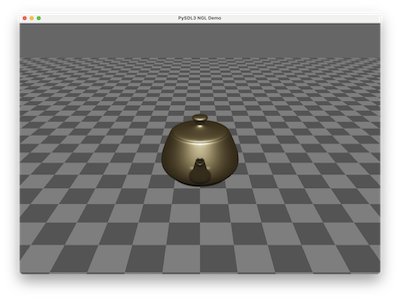
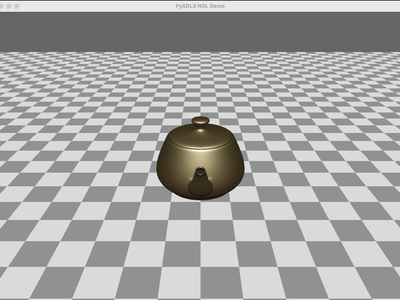
fix: derive the floor's normal matrix from the model-view
The three SimplePyNGL demos built the checkered floor's normal matrix from
the full MVP, so the projection's non-uniform scale rode along into the
normals. The checker fragment shader is a bare Lambert term with no ambient
and no clamp, so the skewed normal took dot(L, N) to -0.09 at the startup
camera and the floor rendered black.

Taking the upper 3x3 from the model-view instead puts the term back in the
0.83-1.0 range across the usual orbit, and the floor lights properly.

Screenshot refreshed to match.

Claude-Session: https://claude.ai/code/session_01NpqYHiEyXkZ4ZPvYkmGACj

diff --git a/SimplePyNGL/PySideSimpleNGL.py b/SimplePyNGL/PySideSimpleNGL.py
@@ -172,8 +172,12 @@ class MainWindow(QOpenGLWindow):
         Primitives.draw("teapot")
         ShaderLib.use(DefaultShader.CHECKER)
         tx = Mat4().translate(0.0, -0.45, 0.0)
-        mvp = self.project @ self.view @ self.mouse_global_tx @ tx
-        normal_matrix = Mat3.from_mat4(mvp)
+        # The normal matrix comes from the model-view only. Deriving it from the
+        # full MVP drags the projection's non-uniform scale into the normals,
+        # which skews the diffuse term and leaves the floor black.
+        mv = self.view @ self.mouse_global_tx @ tx
+        mvp = self.project @ mv
+        normal_matrix = Mat3.from_mat4(mv)
         normal_matrix = normal_matrix.inverse().transposed()
         ShaderLib.set_uniform("MVP", mvp)
         ShaderLib.set_uniform("normalMatrix", normal_matrix)

diff --git a/SimplePyNGL/SDL3NGL.py b/SimplePyNGL/SDL3NGL.py
@@ -244,8 +244,12 @@ class Scene:
         Primitives.draw("teapot")
         ShaderLib.use(DefaultShader.CHECKER)
         tx = Mat4().translate(0.0, -0.45, 0.0)
-        mvp = self.project @ self.view @ self.mouse_global_tx @ tx
-        normal_matrix = Mat3.from_mat4(mvp)
+        # The normal matrix comes from the model-view only. Deriving it from the
+        # full MVP drags the projection's non-uniform scale into the normals,
+        # which skews the diffuse term and leaves the floor black.
+        mv = self.view @ self.mouse_global_tx @ tx
+        mvp = self.project @ mv
+        normal_matrix = Mat3.from_mat4(mv)
         normal_matrix = normal_matrix.inverse().transposed()
         ShaderLib.set_uniform("MVP", mvp)
         ShaderLib.set_uniform("normalMatrix", normal_matrix)

diff --git a/SimplePyNGL/ArcBallRotation.py b/SimplePyNGL/ArcBallRotation.py
@@ -376,8 +376,12 @@ class MainWindow(QOpenGLWindow):
 
         ShaderLib.use(DefaultShader.CHECKER)
         tx = Mat4().translate(0.0, -0.45, 0.0)
-        mvp = self.project @ self.view @ tx
-        normal_matrix = Mat3.from_mat4(mvp)
+        # The normal matrix comes from the model-view only. Deriving it from the
+        # full MVP drags the projection's non-uniform scale into the normals,
+        # which skews the diffuse term and leaves the floor black.
+        mv = self.view @ tx
+        mvp = self.project @ mv
+        normal_matrix = Mat3.from_mat4(mv)
         normal_matrix = normal_matrix.inverse().transposed()
         ShaderLib.set_uniform("MVP", mvp)
         ShaderLib.set_uniform("normalMatrix", normal_matrix)
